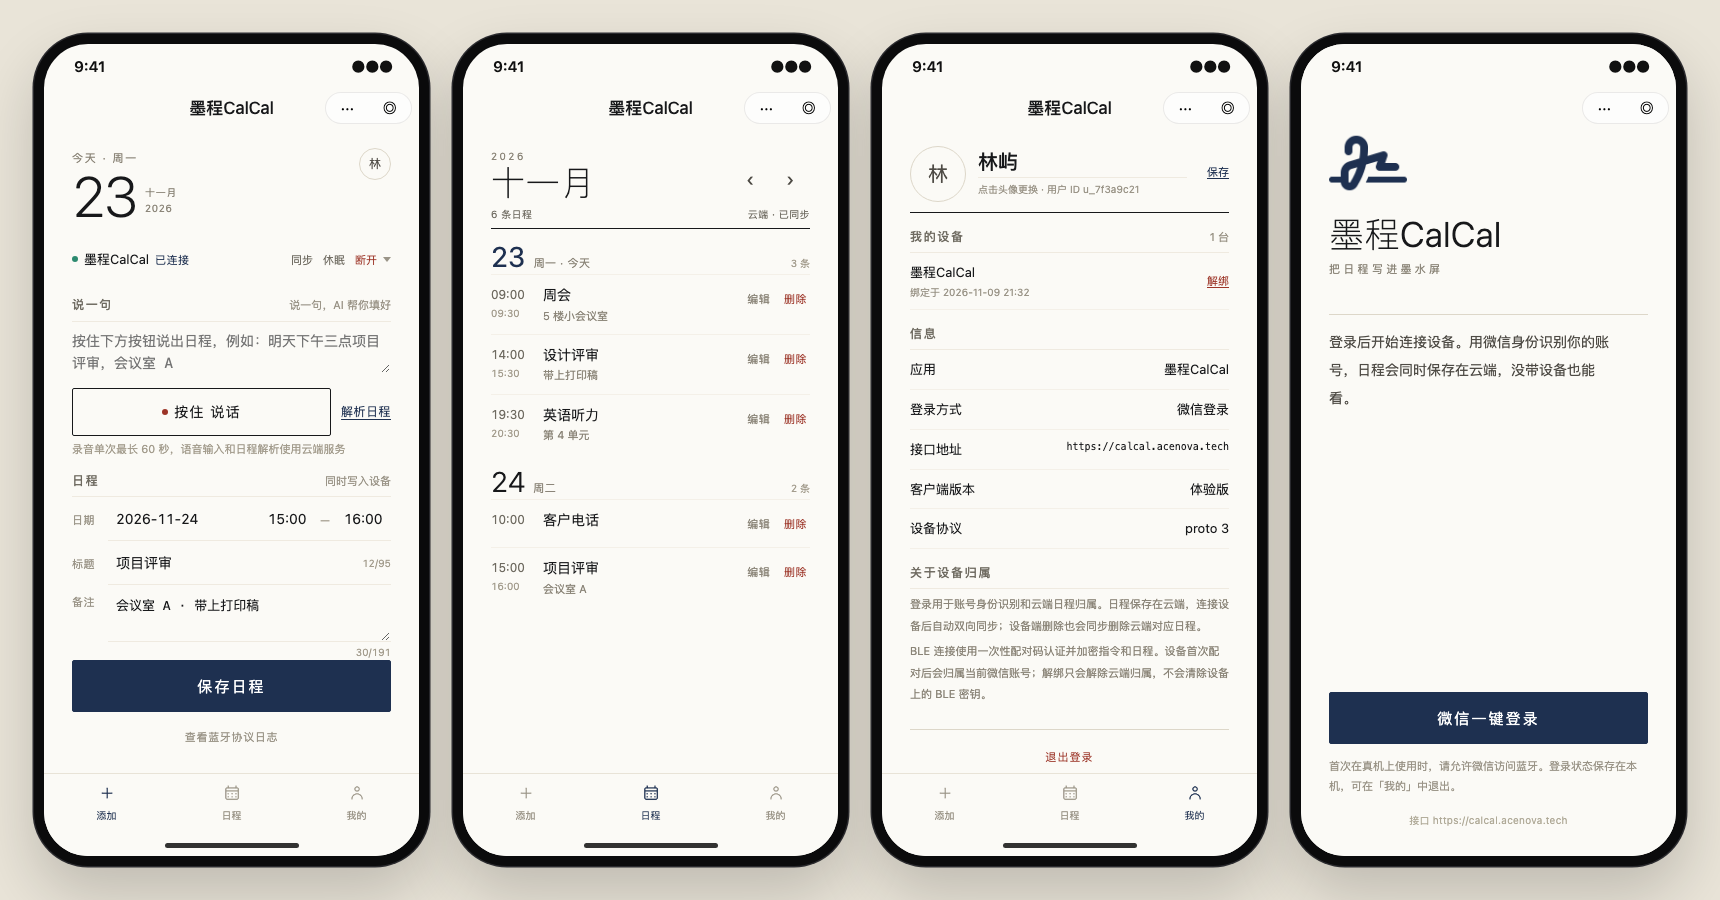
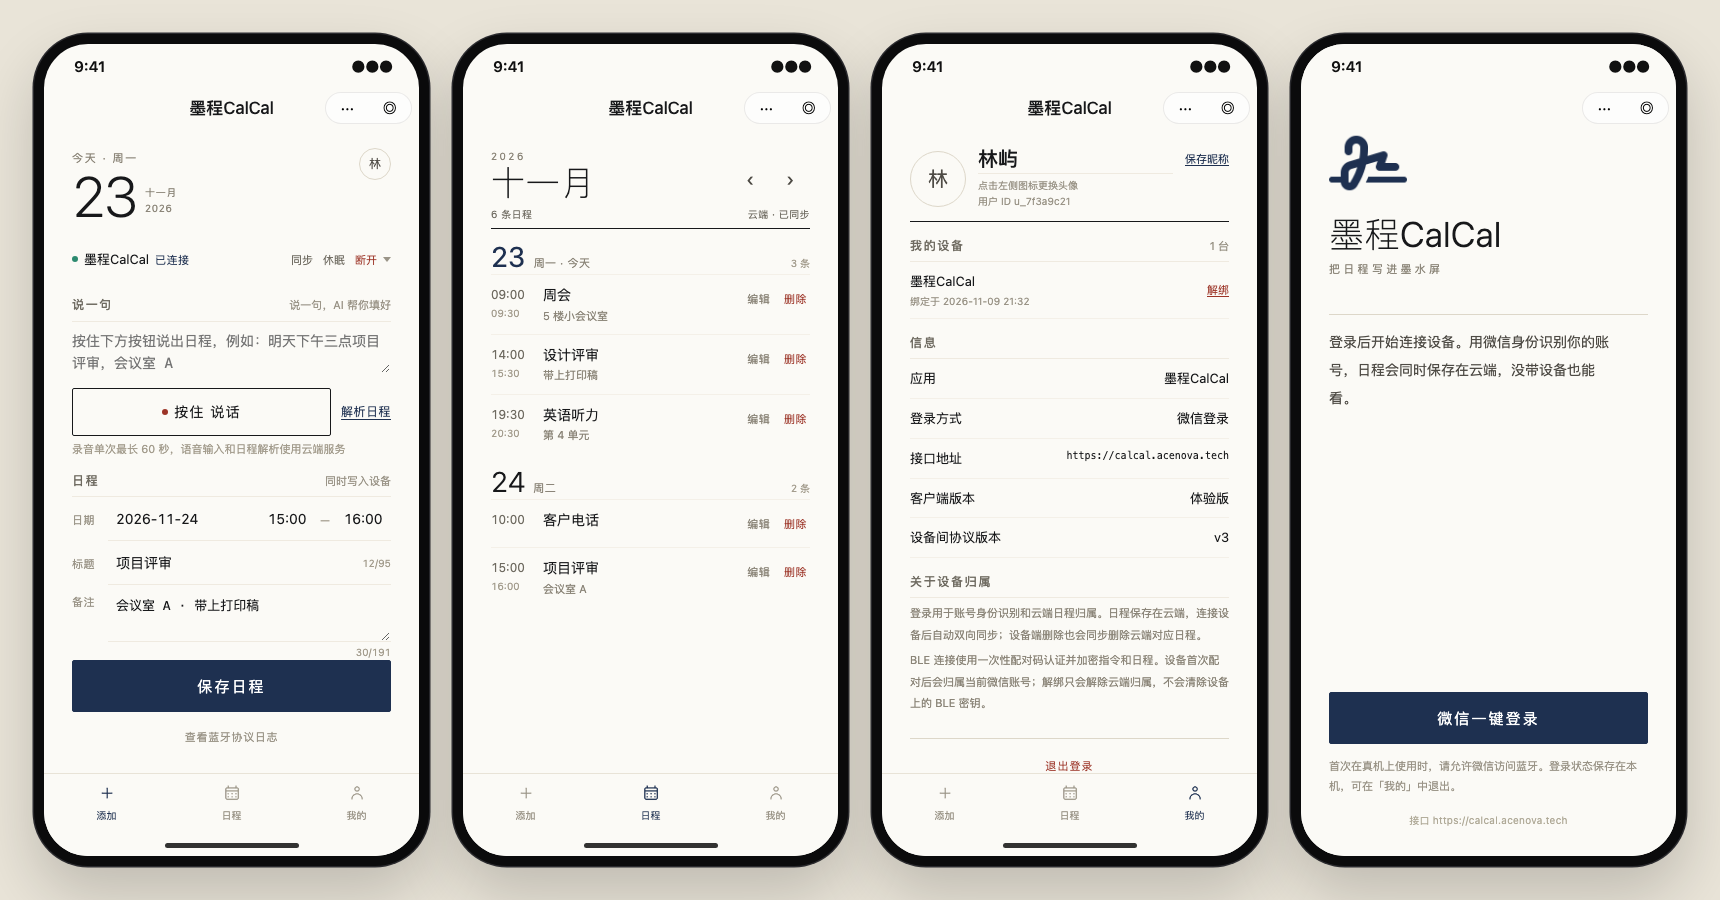
小程序：澄清我的页昵称保存与协议版本
- 「保存昵称」移到昵称输入框右侧，头像提示拆成「点击左侧图标更换头像」和「用户 ID」两行
- 信息模块「设备协议 / proto 3」改为「设备间协议版本 / v3」
- 同步 README、预览与打磨记录

diff --git a/idf-demo/design-demos/preview/mini-preview.html b/idf-demo/design-demos/preview/mini-preview.html
@@ -1601,6 +1601,13 @@
 .agenda-meta { border-bottom-color: #17181a !important; }
 .logout-row { border-top-color: #ddd7c9 !important; }
 </style>
+
+<style>
+.name-row { display: flex; align-items: center; gap: 6px; }
+.name-row .name-input { flex: 1; width: auto; min-width: 0; }
+.profile-head .save-link { flex: none; padding: 4px 0 4px 6px; font-size: 11px; white-space: nowrap; }
+.avatar-meta { margin-top: 4px; display: flex; flex-direction: column; gap: 1px; font-size: 10px; line-height: 1.5; color: #9a9487; }
+</style>
 </head>
 <body><div class="row"><div class="phone"><div class="screen ">
 <div class="statusbar"><span>9:41</span><span>●●●</span></div><div class="nav">墨程CalCal</div>
@@ -1658,8 +1665,10 @@
 <div class="screen-body">
 <div class="page profile-page">
   <div class="profile-head"><button class="avatar-btn"><div class="avatar big avatar-text">林</div></button>
-    <div class="profile-copy"><input class="name-input" value="林屿"><span class="avatar-tip">点击头像更换 · 用户 ID u_7f3a9c21</span></div>
-    <span class="save-link">保存</span></div>
+    <div class="profile-copy">
+      <div class="name-row"><input class="name-input" value="林屿"><span class="save-link">保存昵称</span></div>
+      <div class="avatar-meta"><span>点击左侧图标更换头像</span><span>用户 ID u_7f3a9c21</span></div>
+    </div></div>
   <div class="section"><div class="section-head"><span class="section-title">我的设备</span><span class="hint">1 台</span></div>
     <div class="device-item"><div class="device-item-main"><span class="device-item-name">墨程CalCal</span><span class="device-item-meta">绑定于 2026-11-09 21:32</span></div><span class="unbind-link">解绑</span></div></div>
   <div class="section"><div class="section-head"><span class="section-title">信息</span></div>
@@ -1667,7 +1676,7 @@
     <div class="kv"><span>登录方式</span><span>微信登录</span></div>
     <div class="kv"><span>接口地址</span><span class="mono">https://calcal.acenova.tech</span></div>
     <div class="kv"><span>客户端版本</span><span>体验版</span></div>
-    <div class="kv"><span>设备协议</span><span>proto 3</span></div></div>
+    <div class="kv"><span>设备间协议版本</span><span>v3</span></div></div>
   <div class="section"><div class="section-head"><span class="section-title">关于设备归属</span></div>
     <div class="note-text">登录用于账号身份识别和云端日程归属。日程保存在云端，连接设备后自动双向同步；设备端删除也会同步删除云端对应日程。</div>
     <div class="note-text">BLE 连接使用一次性配对码认证并加密指令和日程。设备首次配对后会归属当前微信账号；解绑只会解除云端归属，不会清除设备上的 BLE 密钥。</div></div>

diff --git a/idf-demo/miniprogram/README.md b/idf-demo/miniprogram/README.md
@@ -28,7 +28,7 @@
   断开三个按钮始终可见；同步、断开、锁屏休眠都会先弹二次确认，取消不会发指令；
   点标题可展开信息，断开后自动展开回扫描界面；
 - 底部三个 tab：「添加」是设备卡片 + 新建日程表单，「日程」是本月日历列表（可翻月、
-  编辑、删除），「我的」是头像昵称，底部信息卡里显示客户端版本和设备协议版本；
+  编辑、删除），「我的」是头像昵称，底部信息卡里显示客户端版本和设备间协议版本；
 - 「我的」页的**客户端版本不写在代码里**：运行时取 `wx.getAccountInfoSync()`，正式版
   显示上传时填的线上版本号，开发版/体验版显示环境名（微信只在正式版返回版本号）；
 - 添加、编辑、删除日程，锁屏休眠，查看固件/设备时间/协议日志；
